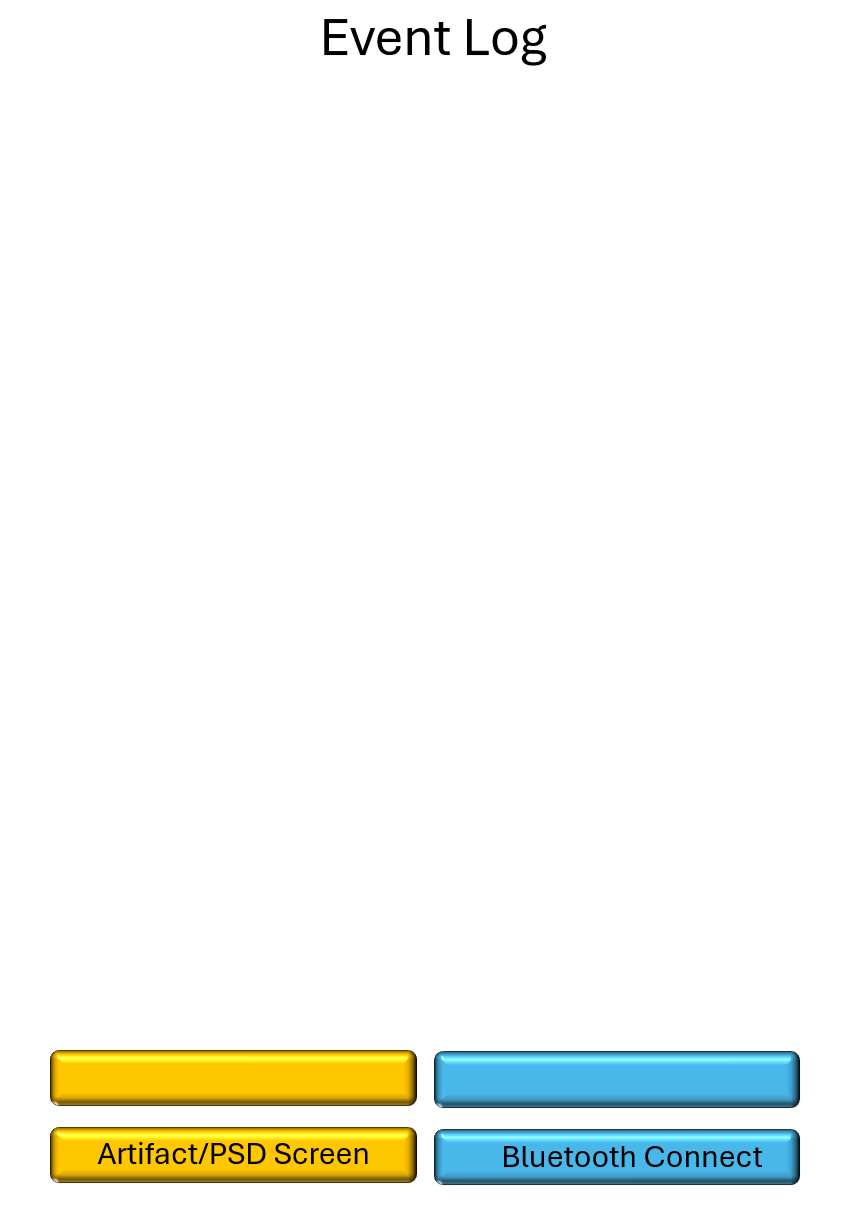
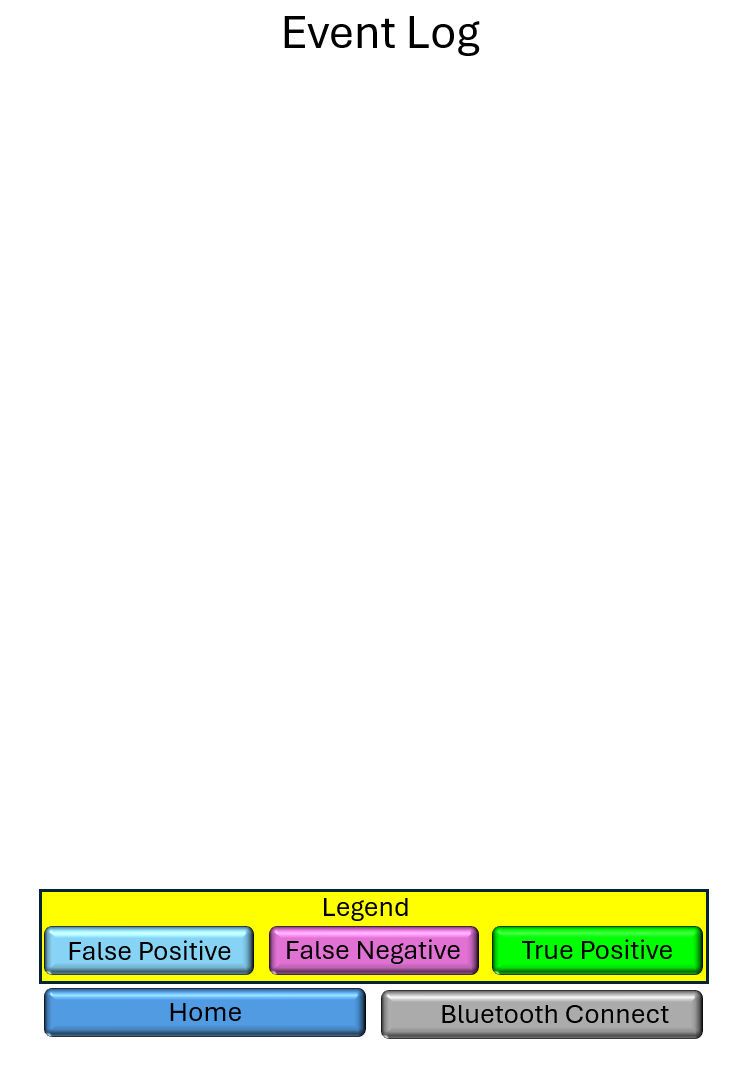
Back to Bluetooth Connect Button Works for Both Screens, and Display Graph Brings Us Back.

Changed region(s): [[0.0308, 0.8358, 0.9545, 0.9906], [0.3695, 0.0, 0.6466, 0.0619]]

diff --git a/app/src/main/java/com/esark/gasp/GameScreenEventLog.java b/app/src/main/java/com/esark/gasp/GameScreenEventLog.java
@@ -4,8 +4,10 @@ import static com.esark.gasp.GameScreen.eventCount;
 import static com.esark.gasp.GameScreen.timeStamp;
 
 import android.content.Context;
+import android.content.Intent;
 import android.util.Log;
 
+import com.esark.framework.AndroidGame;
 import com.esark.framework.Game;
 import com.esark.framework.Graphics;
 import com.esark.framework.Input;
@@ -15,9 +17,8 @@ import com.esark.framework.Screen;
 import java.util.List;
 
 public class GameScreenEventLog extends Screen implements Input {
-    // --- GRID CONSTANTS (64 Buttons: 4 cols x 16 rows) ---
+    // --- GRID CONSTANTS (8 cols x 16 rows = 128 max) ---
     private static final int COLS = 8;
-    private static final int ROWS = 16;
     private static final int MAX_CAPACITY = 128;
 
     private static final int START_X = 55;
@@ -27,8 +28,6 @@ public class GameScreenEventLog extends Screen implements Input {
     private static final int SPACING_X = 30;
     private static final int SPACING_Y = 20;
 
-    // DO NOT initialize here. Initializing other screens in fields
-    // is what causes the "20 event crash" due to memory recursion.
     private GameScreenEvent gameScreenEvent = null;
 
     public GameScreenEventLog(Game game) {
@@ -46,7 +45,6 @@ public class GameScreenEventLog extends Screen implements Input {
             if (Assets.eventLogButtonJpeg == null) {
                 Assets.eventLogButtonJpeg = g.newPixmap("eventLogButtonJpeg.jpg", Graphics.PixmapFormat.RGB565);
             }
-            // ADD THESE TWO:
             if (Assets.eventLogButtonBlue == null) {
                 Assets.eventLogButtonBlue = g.newPixmap("eventLogButtonBlue.png", Graphics.PixmapFormat.RGB565);
             }
@@ -54,7 +52,7 @@ public class GameScreenEventLog extends Screen implements Input {
                 Assets.eventLogButtonPurple = g.newPixmap("eventLogButtonPurple.png", Graphics.PixmapFormat.RGB565);
             }
         } catch (Exception e) {
-            Log.e("EventLog", "Memory Error: " + e.getMessage());
+            Log.e("EventLog", "Asset Loading Error: " + e.getMessage());
         }
     }
 
@@ -63,7 +61,6 @@ public class GameScreenEventLog extends Screen implements Input {
         List<TouchEvent> touchEvents = game.getInput().getTouchEvents();
         if (touchEvents == null) return;
 
-        // Take a snapshot of the count so it doesn't change during the loop
         int currentTotal;
         synchronized (timeStamp) {
             currentTotal = eventCount;
@@ -72,13 +69,24 @@ public class GameScreenEventLog extends Screen implements Input {
         for (int i = 0; i < touchEvents.size(); i++) {
             TouchEvent event = touchEvents.get(i);
             if (event.type == TouchEvent.TOUCH_UP) {
-                // 1. Back Button
-                if (event.x > 25 && event.x < 675 && event.y > 2583) {
+                // 1. Navigation: Back to Live View
+                if (event.x > 25 && event.x < 850 && event.y > 2510) {
                     game.setScreen(game.getStartScreen());
                     return;
                 }
+                // 2. Navigation: Reconnect Bluetooth (Fixed to prevent frozen waves)
+                else if (event.x > 1300 && event.y > 2510) {
+                    // Update this to use AndroidGame.mConnectedThread
+                    if (AndroidGame.mConnectedThread != null) {
+                        AndroidGame.mConnectedThread.cancel();
+                    }
+                    Intent intent2 = new Intent(context.getApplicationContext(), AndroidGame.class);
+                    intent2.setFlags(Intent.FLAG_ACTIVITY_NEW_TASK | Intent.FLAG_ACTIVITY_CLEAR_TASK);
+                    context.startActivity(intent2);
+                    return;
+                }
 
-                // 2. Grid Detection
+                // 3. Grid Selection Detection
                 int limit = Math.min(currentTotal, MAX_CAPACITY);
                 for (int j = 0; j < limit; j++) {
                     int row = j / COLS;
@@ -87,14 +95,9 @@ public class GameScreenEventLog extends Screen implements Input {
                     int y = START_Y + row * (BTN_H + SPACING_Y);
 
                     if (event.x > x && event.x < x + BTN_W && event.y > y && event.y < y + BTN_H) {
-                        // LAZY INITIALIZATION: Create the sub-screen ONLY when clicked
-                        if (gameScreenEvent == null) {
-                            gameScreenEvent = new GameScreenEvent(game);
-                        }
-
-                        // Pass the index to GameScreen to load the specific CSV
                         GameScreen gs = GameScreen.liveScreen;
                         if (gs != null) {
+                            // selectedEventId is updated inside loadSpecificEvent
                             gs.loadSpecificEvent(j, context);
                             game.setScreen(gs);
                         }
@@ -110,78 +113,71 @@ public class GameScreenEventLog extends Screen implements Input {
         Graphics g = game.getGraphics();
         if (g == null) return;
 
-        if (Assets.eventLogBackground == null || Assets.eventLogButtonJpeg == null) {
-            loadAssets();
-        }
+        if (Assets.eventLogBackground == null) loadAssets();
 
-        // Draw Background
         if (Assets.eventLogBackground != null) {
             g.drawPortraitPixmap(Assets.eventLogBackground, 0, 0);
         }
 
-        // THREAD-SAFE DRAWING
+        // Thread-safe copy of labels
         String[] localLabels = new String[MAX_CAPACITY];
-        int displayCount = 0;
+        int[] localClass = new int[MAX_CAPACITY];
+        int displayCount;
 
         synchronized (timeStamp) {
             displayCount = Math.min(eventCount, MAX_CAPACITY);
             for (int k = 0; k < displayCount; k++) {
-                if (k < timeStamp.length) {
-                    localLabels[k] = timeStamp[k];
-                }
+                localLabels[k] = timeStamp[k];
+                localClass[k] = GameScreen.eventClassification[k];
             }
         }
 
         if (displayCount == 0) {
-            g.drawText("No Events Recorded", 170, 400);
+            g.drawText("No Events Recorded", 600, 1400);
             return;
         }
 
-        if (Assets.eventLogButtonJpeg != null) {
-            // --- DRAWING LOOP ---
-            for (int i = 0; i < displayCount; i++) {
-                int row = i / COLS;
-                int col = i % COLS;
-                int x = START_X + col * (BTN_W + SPACING_X);
-                int y = START_Y + row * (BTN_H + SPACING_Y);
+        // DRAWING LOOP
+        for (int i = 0; i < displayCount; i++) {
+            int row = i / COLS;
+            int col = i % COLS;
+            int x = START_X + col * (BTN_W + SPACING_X);
+            int y = START_Y + row * (BTN_H + SPACING_Y);
 
-                if (y > 2500) break;
+            if (y > 2500) break;
 
-                // 1. SELECT BUTTON COLOR
-                com.esark.framework.Pixmap btnPixmap;
-                int classification = GameScreen.eventClassification[i];
+            // 1. Pick Button Pixmap based on Classification
+            com.esark.framework.Pixmap btnPixmap;
+            int classification = localClass[i];
 
-                if (classification == 1) {
-                    btnPixmap = Assets.eventLogButtonBlue;   // False Positive
-                } else if (classification == 2) {
-                    btnPixmap = Assets.eventLogButtonPurple; // False Negative
-                } else {
-                    btnPixmap = Assets.eventLogButtonJpeg;   // True Positive / Default Green
-                }
+            if (classification == 1) {
+                btnPixmap = Assets.eventLogButtonBlue;   // False Positive
+            } else if (classification == 2) {
+                btnPixmap = Assets.eventLogButtonPurple; // False Negative
+            } else {
+                btnPixmap = Assets.eventLogButtonJpeg;   // True Positive / Default Green
+            }
 
-                if (btnPixmap != null) {
-                    g.drawEventLogButtonPixmap(btnPixmap, x, y);
-                }
+            if (btnPixmap != null) {
+                g.drawEventLogButtonPixmap(btnPixmap, x, y);
+            }
 
-                // 2. PARSE AND DRAW TIMESTAMP (Seconds Only)
-                String label = GameScreen.timeStamp[i];
-                if (label != null && label.contains(":")) {
-                    try {
-                        // Split "MM:SS:mmm"
-                        String[] parts = label.split(":");
+            // 2. Draw "Seconds Only" Timestamp
+            String label = localLabels[i];
+            if (label != null && label.contains(":")) {
+                try {
+                    String[] parts = label.split(":");
+                    if (parts.length >= 2) {
                         int minutes = Integer.parseInt(parts[0]);
                         int seconds = Integer.parseInt(parts[1]);
-
-                        // Convert to total seconds
                         int totalSeconds = (minutes * 60) + seconds;
-                        String finalLabel = totalSeconds + " s";
 
-                        // Draw text centered on the button
+                        String finalLabel = totalSeconds + " s";
+                        // Standardized text centering
                         g.drawText(finalLabel, x + 55, y + 72);
-                    } catch (Exception e) {
-                        // Fallback to raw label if parsing fails
-                        g.drawText(label, x + 42, y + 72);
                     }
+                } catch (Exception e) {
+                    g.drawText(label, x + 35, y + 72);
                 }
             }
         }

diff --git a/app/src/main/java/com/esark/gasp/GameScreen.java b/app/src/main/java/com/esark/gasp/GameScreen.java
@@ -1,6 +1,7 @@
 package com.esark.gasp;
 
 import static com.esark.framework.AndroidGame.signalBufferLen;
+import static com.esark.gasp.ConnectedThread.*;
 
 import android.content.Context;
 import android.content.Intent;
@@ -369,16 +370,7 @@ public class GameScreen extends Screen implements Input {
                         truePositive++;
                     }
                 }
-                else if (event.x > 720 && event.x < 1190 && event.y > 2535 && event.y < 2735) {
-                    //Event Log Screen
-                    // Only create it when the user actually wants to see it
-                    if (gameScreenEventLog == null) {
-                        gameScreenEventLog = new GameScreenEventLog(game);
-                    }
-                    // Stop recording or any heavy UI tasks before switching to save memory
-                    isRecording = false;
-                    game.setScreen(gameScreenEventLog);
-                }
+
                 //////////////////// Manual Patient Event (2 Second Window) /////////////////////
                 else if (event.x > 10 && event.x < 675 && event.y > 2450 && event.y < 2800) {
                     if (manualPatientEventUpCount == 0 && isRecording && eventCount < 150) {
@@ -561,6 +553,12 @@ public class GameScreen extends Screen implements Input {
                 if (rmsAmpThresh < 0) {
                     rmsAmpThresh = 0;
                 }
+                // 3. BACK TO BLUETOOTH (Move this to the VERY BOTTOM of the button checks)
+                else if (event.x > 1245 && event.x < 1715 && event.y > 2535 && event.y < 2735) {
+                    Intent intent2 = new Intent(context.getApplicationContext(), GaspSemg.class);
+                    context.startActivity(intent2);
+                    return;
+                }
                 /////////////////////////////////////////////////////////////////////////
             } // This brace closes the if (TOUCH_DOWN || TOUCH_DRAGGED) block
 
@@ -574,6 +572,21 @@ public class GameScreen extends Screen implements Input {
                 falsePositiveDownCount = 0;
                 falseNegativeDownCount = 0;
                 truePositiveDownCount = 0;
+
+                // else if (event.x > 720 && event.x < 1190 && event.y > 2535 && event.y < 2735) {
+                // 1. EVENT LOG BUTTON (New Logic)
+                // Assuming your Event Log button is the one you want to navigate to the log
+                if (event.x > 840 && event.x < 1220 && event.y > 2535 && event.y < 2735) {
+                    //Event Log Screen
+                    // Only create it when the user actually wants to see it
+                    if (gameScreenEventLog == null) {
+                        gameScreenEventLog = new GameScreenEventLog(game);
+                    }
+                    // Stop recording or any heavy UI tasks before switching to save memory
+                    isRecording = false;
+                    game.setScreen(gameScreenEventLog);
+                    return;
+                }
             }
         } // This brace closes the for-loop
 
@@ -697,6 +710,13 @@ public class GameScreen extends Screen implements Input {
             int xLeftLimit = 130;
             float totalPixelWidth = (float) (xRightLimit - xLeftLimit);
             float stretchFactor = totalPixelWidth / (float) (smoothedRMS.length - 1);
+
+
+            // If the data acquisition thread stopped, jCount will stop increasing
+            // Let's force a refresh or check if we are getting data
+        //    int currentCount = ConnectedThread.jCount.get();
+            // If btStatus is "BT: Connected" but waves aren't moving,
+            // it means rxThread is dead.
 
             // --- 1. CALCULATE LIVE AREA FIRST (To determine color) ---
             // --- 1. PRE-PASS: IDENTIFY ALL SPASM "ISLANDS" IN THE BUFFER ---

diff --git a/app/src/main/java/com/esark/gasp/ConnectedThread.java b/app/src/main/java/com/esark/gasp/ConnectedThread.java
@@ -1,7 +1,9 @@
 package com.esark.gasp;
 
+import static android.system.Os.*;
 import static com.esark.gasp.GameScreen.*;
 import android.os.Process;
+import android.system.Os;
 import android.util.Log;
 import java.io.IOException;
 import java.io.InputStream;
@@ -10,8 +12,10 @@ import java.util.concurrent.Executors;
 import java.util.concurrent.atomic.AtomicBoolean;
 import java.util.concurrent.atomic.AtomicInteger;
 import java.util.concurrent.locks.LockSupport;
+import android.bluetooth.BluetoothSocket;
 
 public class ConnectedThread extends Thread {
+    private final BluetoothSocket mmSocket;    // Add this
     private final InputStream mmInStream;
     private int tempHighByte;
     private boolean expectingLowByte = false;
@@ -20,8 +24,19 @@ public class ConnectedThread extends Thread {
     private final AtomicBoolean mathIsBusy = new AtomicBoolean(false);
     private final double[] a2dCopyForMath = new double[signalBufferLen];
 
-    public ConnectedThread(InputStream stream) {
-        this.mmInStream = stream;
+    // Change the constructor to accept the Socket
+    public ConnectedThread(BluetoothSocket socket) {
+        this.mmSocket = socket;
+        InputStream tmpIn = null;
+
+        // Extract the stream from the socket
+        try {
+            tmpIn = socket.getInputStream();
+        } catch (IOException e) {
+            Log.e("ConnectedThread", "Error occurred when creating input stream", e);
+        }
+
+        this.mmInStream = tmpIn;
     }
 
     @Override
@@ -262,5 +277,17 @@ public class ConnectedThread extends Thread {
         }
         rxThread.interrupt();
         mathExecutor.shutdownNow();
+    }
+    // Inside ConnectedThread.java
+    public void cancel() {
+        try {
+            // This closes the Bluetooth socket, which forces the
+            // mmInStream.read() to throw an IOException and stop the thread
+            if (mmSocket != null) {
+                mmSocket.close();
+            }
+        } catch (IOException e) {
+            Log.e("ConnectedThread", "Could not close the connect socket", e);
+        }
     }
 }

diff --git a/app/src/main/java/com/esark/framework/AndroidGame.java b/app/src/main/java/com/esark/framework/AndroidGame.java
@@ -63,7 +63,7 @@ public abstract class AndroidGame extends Activity implements Game {
     private ArrayAdapter<String> mBTArrayAdapter;
     private ListView mDevicesListView;
     private Handler mHandler;
-    private ConnectedThread mConnectedThread;
+    public static ConnectedThread mConnectedThread;
     private BluetoothSocket mBTSocket = null;
 
     private static final UUID BT_MODULE_UUID = UUID.fromString("00001101-0000-1000-8000-00805F9B34FB");
@@ -219,15 +219,18 @@ public abstract class AndroidGame extends Activity implements Game {
 
             if (!fail) {
                 try {
-                    mConnectedThread = new ConnectedThread(mBTSocket.getInputStream());
+                    // The constructor handles its own IOException now,
+                    // so we catch a general Exception here just in case of other issues.
+                    mConnectedThread = new ConnectedThread(mBTSocket);
                     mConnectedThread.start();
                     mHandler.obtainMessage(CONNECTING_STATUS, 1, -1, name).sendToTarget();
-                } catch (IOException e) {
-                    Log.e("BT", "Stream creation failed");
+                } catch (Exception e) {
+                    Log.e("BT", "Thread initialization failed", e);
                 } finally {
-                    isConnecting = false; // Reset on success
+                    isConnecting = false; // Reset on success or failure
                 }
             }
+
         }).start();
     }
 

diff --git a/app/src/main/java/com/esark/gasp/GaspSemg.java b/app/src/main/java/com/esark/gasp/GaspSemg.java
@@ -9,6 +9,8 @@ public class GaspSemg extends AndroidGame {
     AndroidGame is an abstract class. This means it doesn't have to implement all methods of Game,
     as long as one of the classes extending AndroidGame does this. getStartScreen() does this.
      */
+    // Inside GaspSemg.java
+    public static ConnectedThread connectedThread;  // Must be public AND static
     public Screen getStartScreen() {
         return new LoadingScreen(this);
     }
